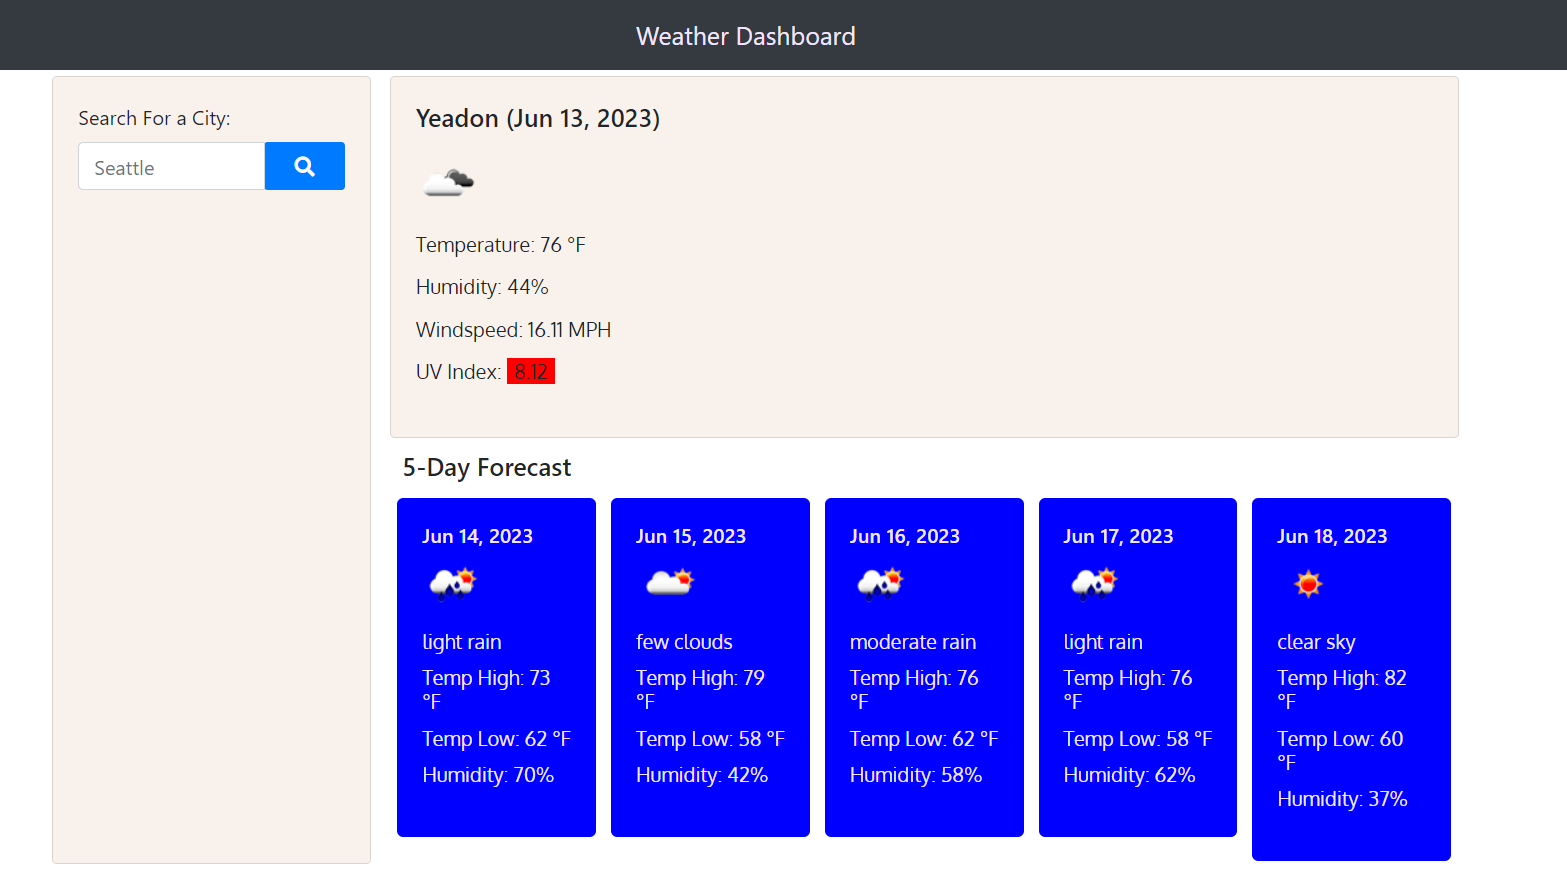
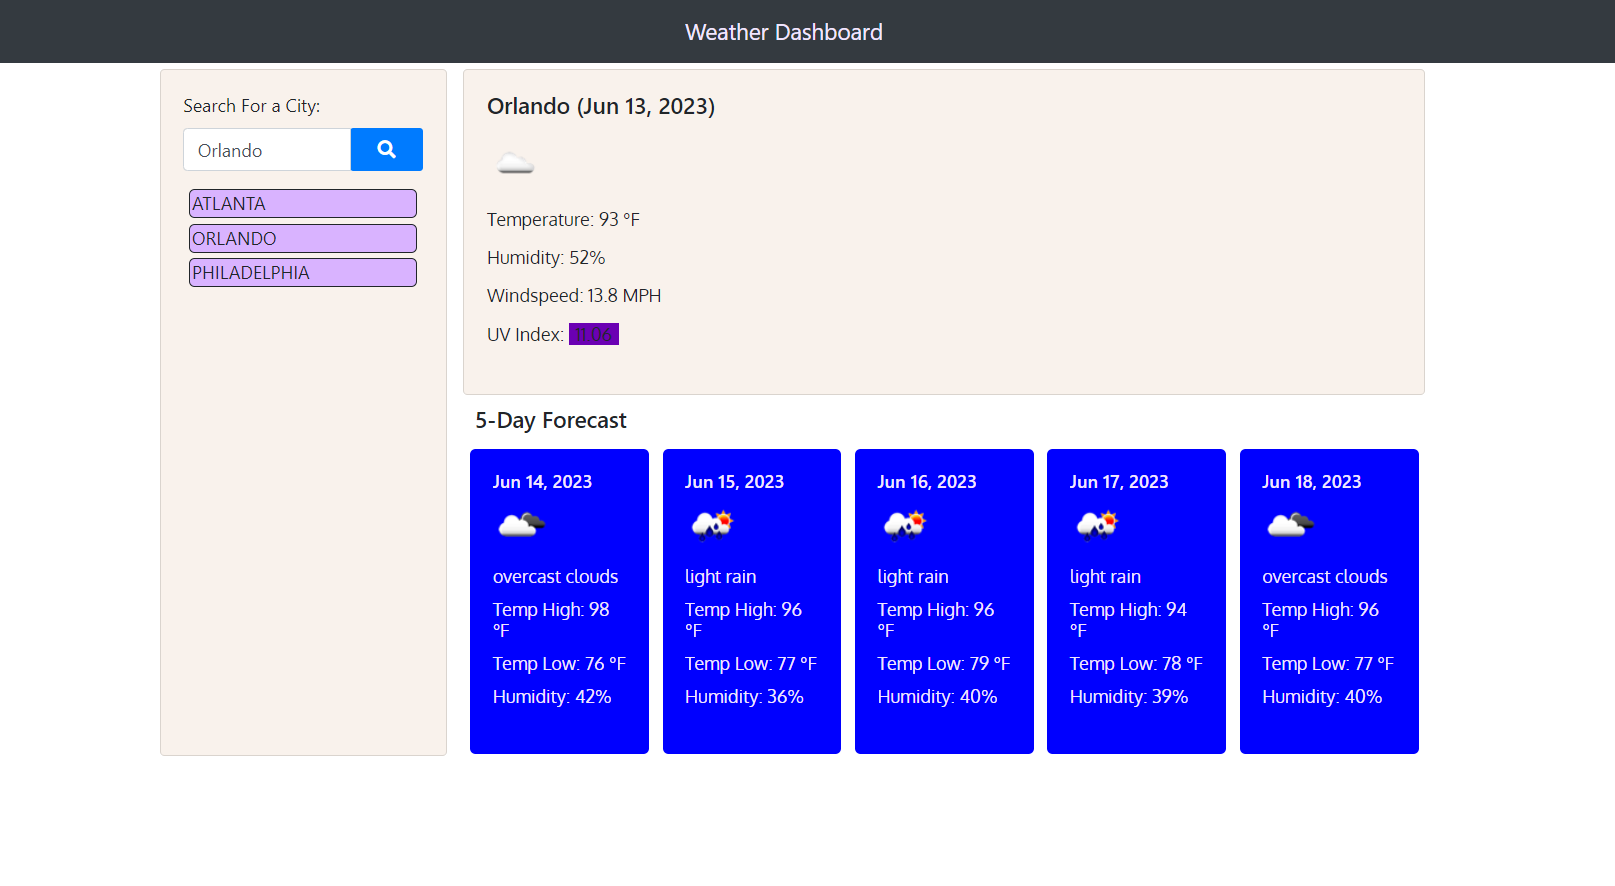
remove fitness tracker/ add weather dashboard

Changed region(s): [[0.0, 0.0305, 1.0, 0.9752]]

diff --git a/src/profile.js b/src/profile.js
@@ -72,10 +72,10 @@ const projects = [
   },
   {
     id: "project2",
-    name: "Workout Tracker",
-    skills: ["JS: 60.5%, CSS: 21.4%, HTML: 18.1%"],
-    deployed:"https://sleepy-fortress-48942.herokuapp.com/?id=60a09630599c3e00154d87aa",
-    url: "https://github.com/tfletch3018/Workout-Tracker",
+    name: "Weather Dashboard",
+    skills: ["JS: 64.1%, HTML: 25%, CSS: 10.9%"],
+    deployed:"https://tfletch3018.github.io/Weather-Dashboard/",
+    url: "https://github.com/tfletch3018/Weather-Dashboard",
   },
   {
     id: "project3",

diff --git a/src/styles/images.css b/src/styles/images.css
@@ -9,7 +9,7 @@
     cursor: none;    
 }
 .project2{
-    background-image: url('./images/fitness_tracker.png');
+    background-image: url('./images/weather_dashboard.png');
     cursor: none;
 }
 .project3{
